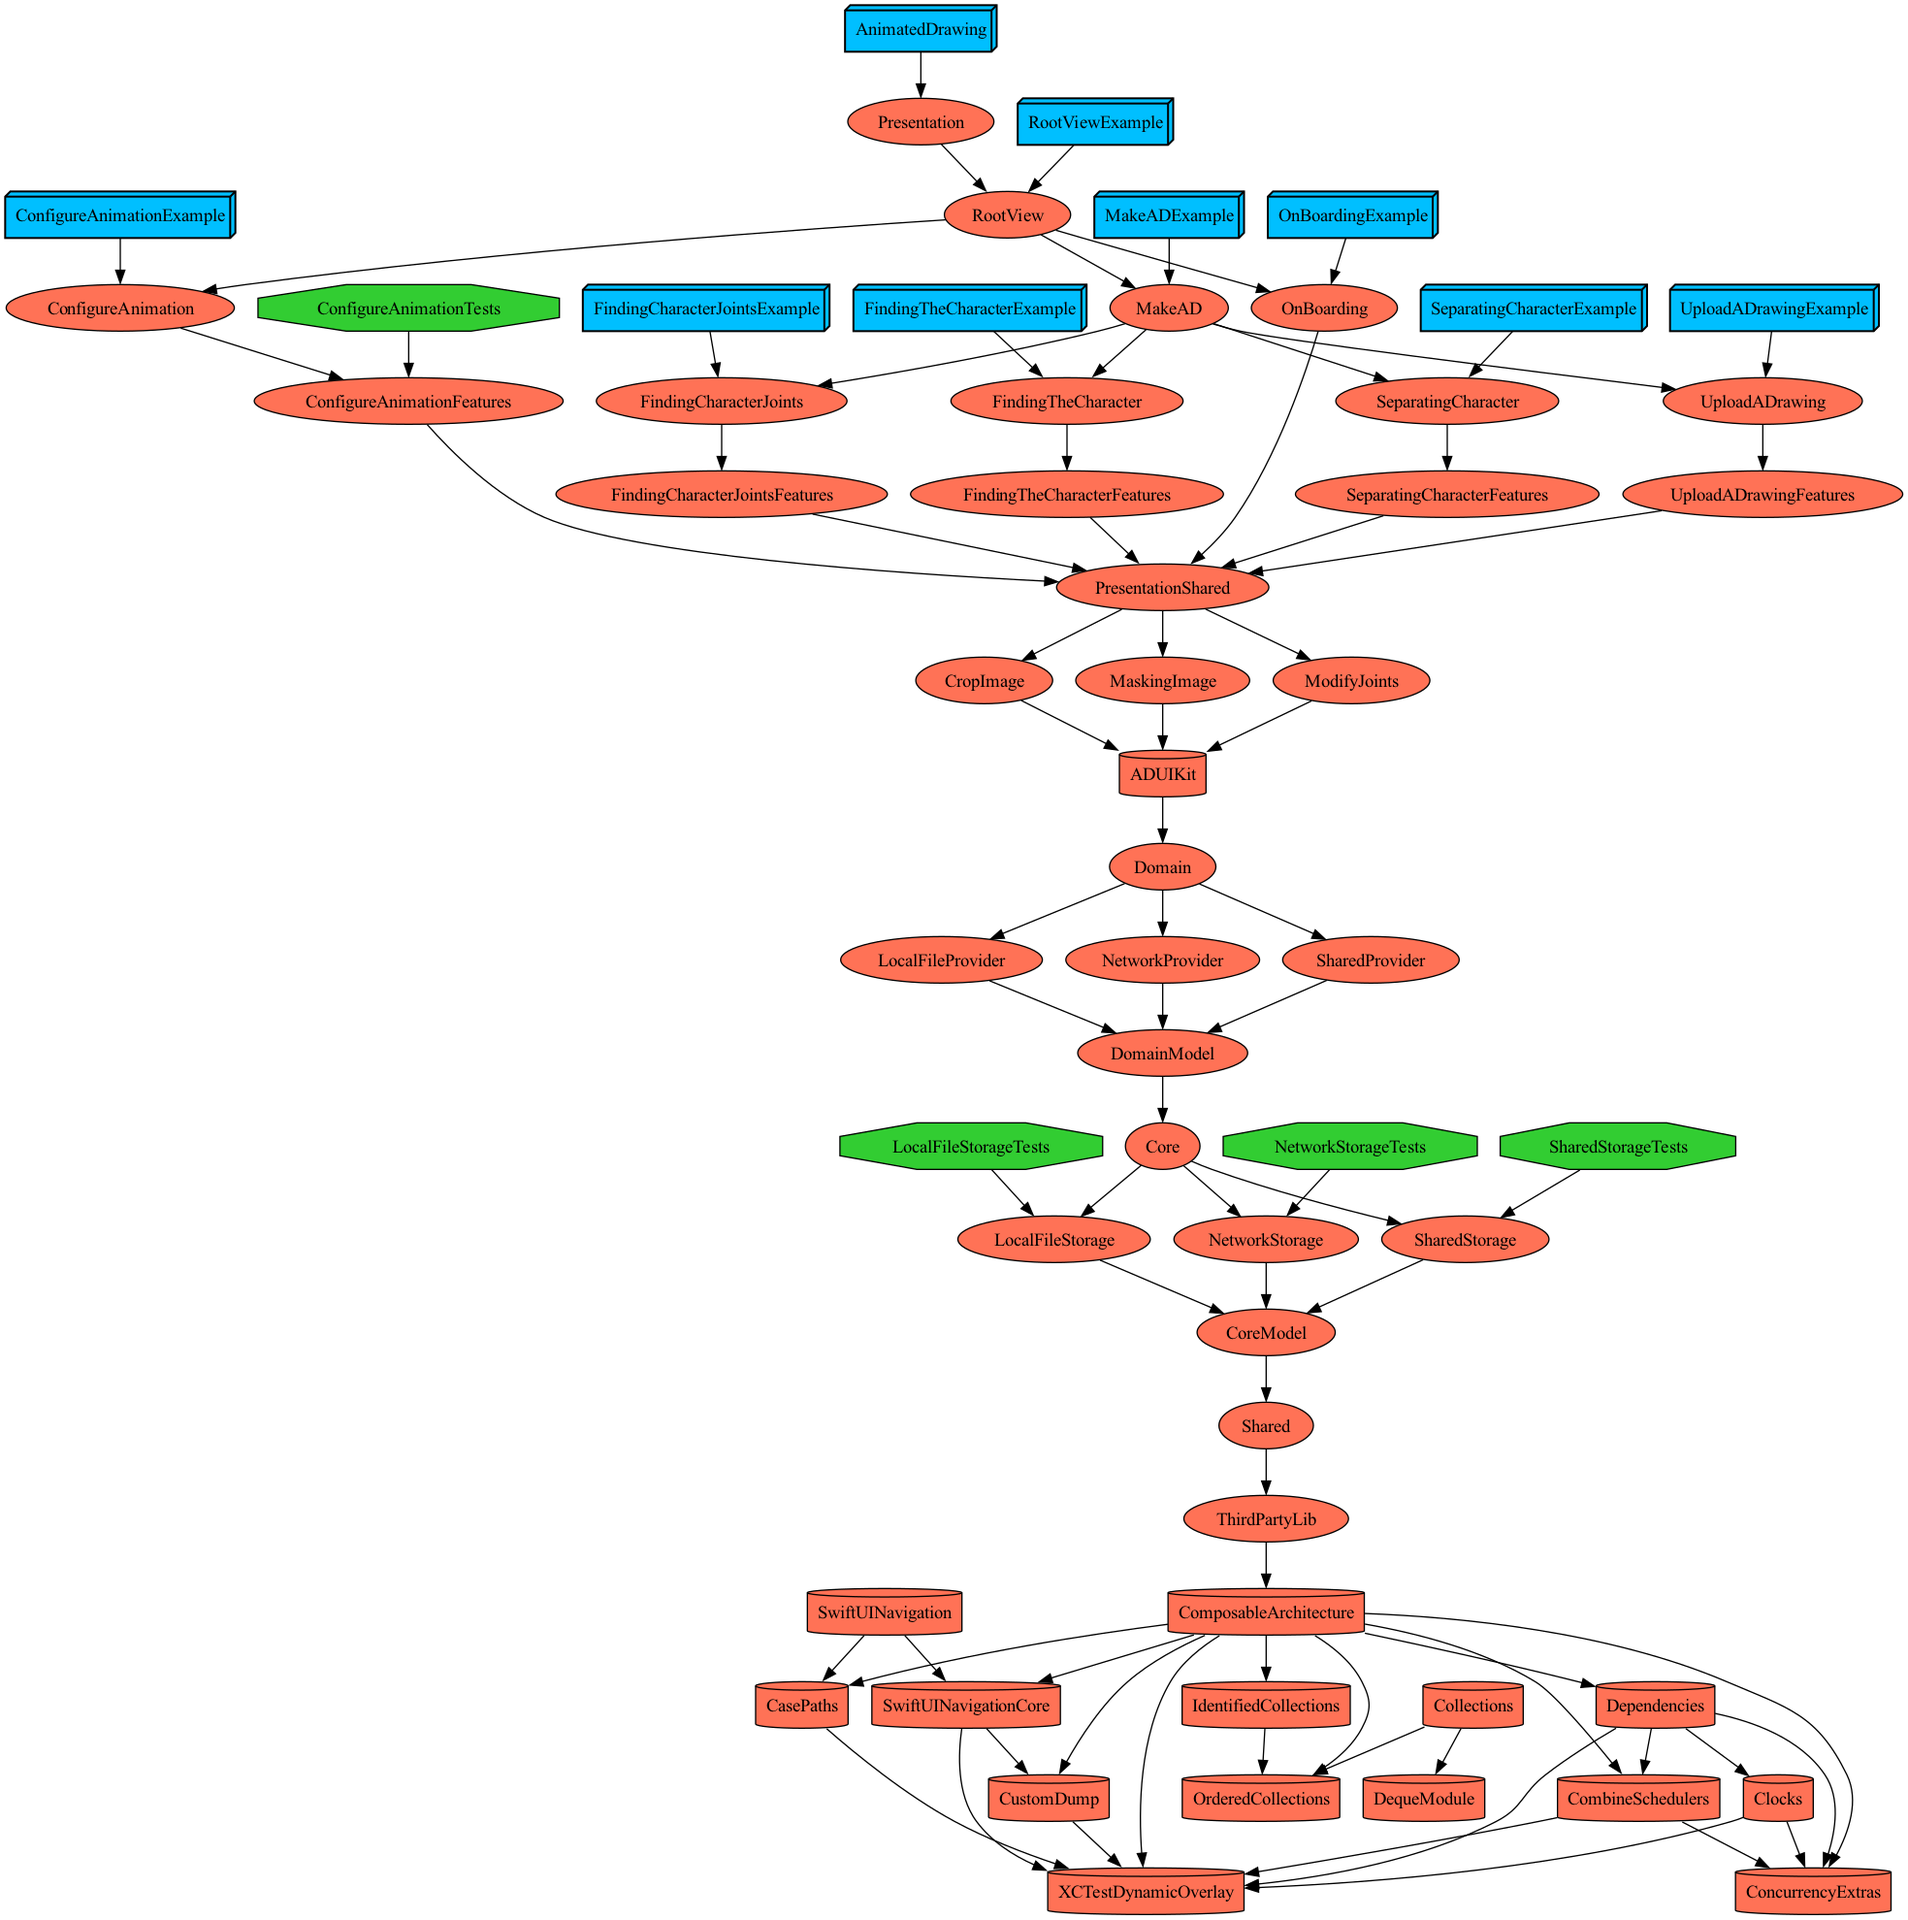
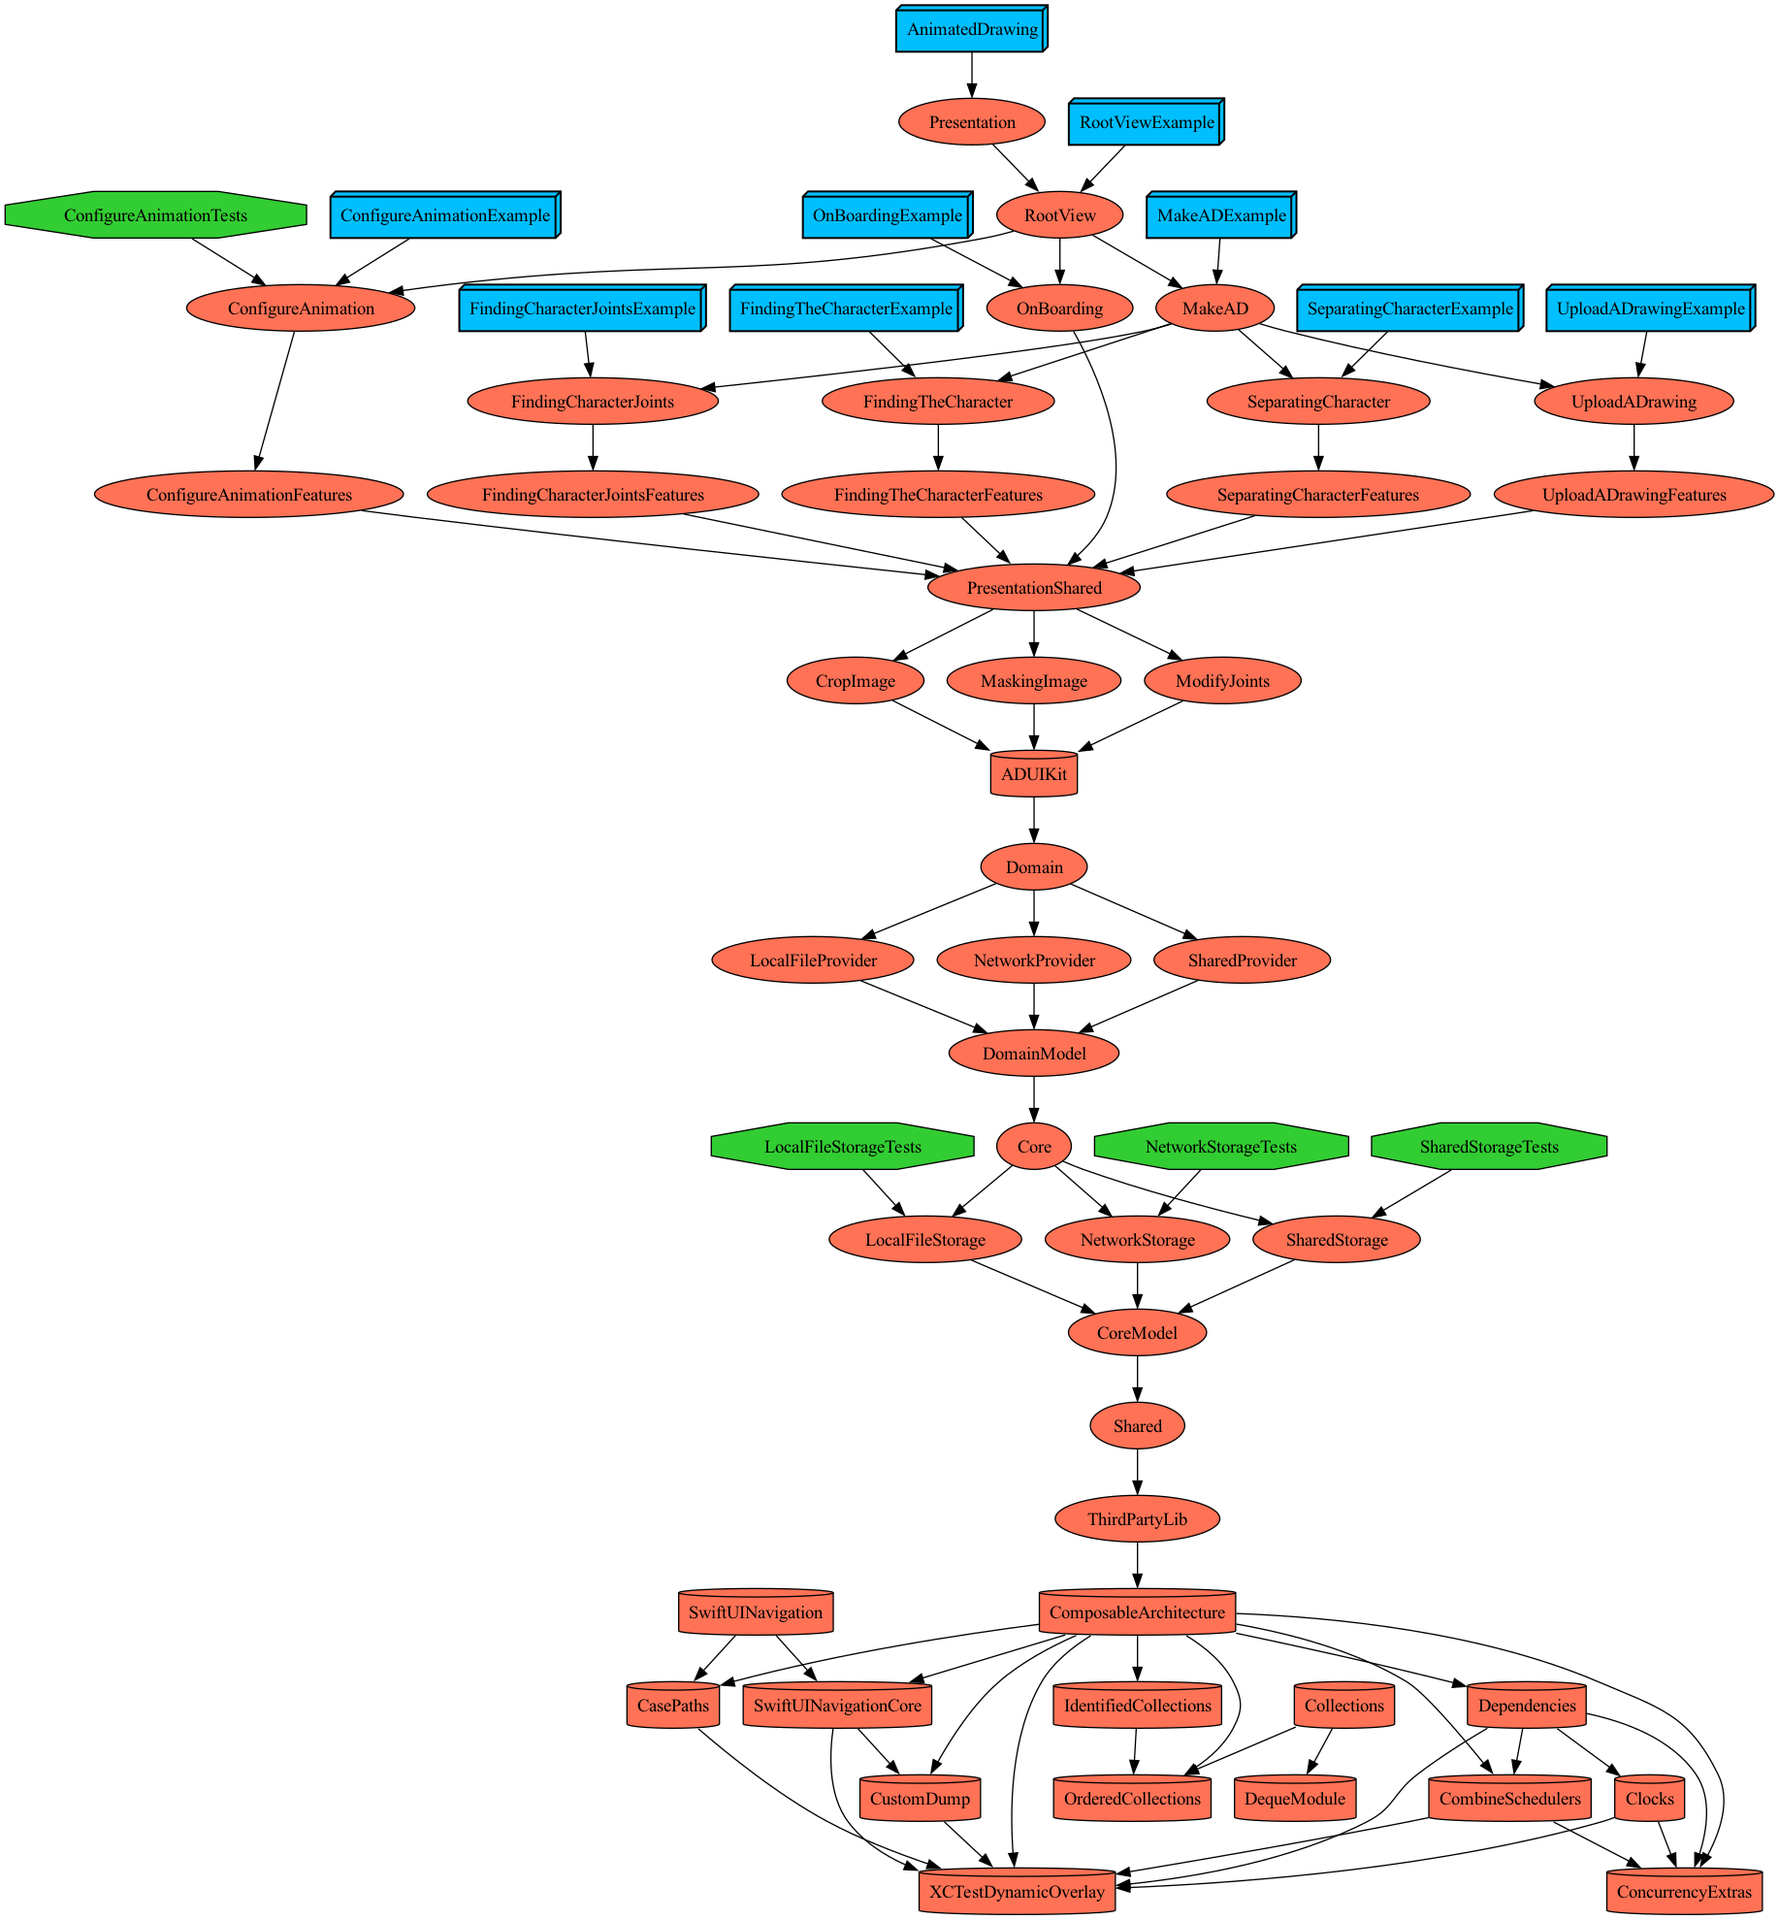
[Refactor] : TaskEmptyResult 추가
Git: #71

Changed region(s): [[0.0, 0.0, 0.9945, 1.0]]

diff --git a/Projects/Presentation/ConfigureAnimation/Tests/ConfigureAnimationTests.swift b/Projects/Presentation/ConfigureAnimation/Tests/ConfigureAnimationTests.swift
@@ -1,0 +1,107 @@
+//
+//  ConfigureAnimationTests.swift
+//  ConfigureAnimationTests
+//
+//  Created by minii on 2023/10/14.
+//  Copyright © 2023 chminipark. All rights reserved.
+//
+
+import XCTest
+import ComposableArchitecture
+@testable import ConfigureAnimationFeatures
+
+import SharedStorage
+import DomainModel
+
+@MainActor
+final class ConfigureAnimationTests: XCTestCase {
+  func testFixMakeAD() async {
+    let mockSharedADViewCase = CombineNotifier<ADViewCase>(initialValue: .OnBoarding)
+    let store = TestStore(initialState: .init()) {
+      ConfigureAnimationFeature()
+    } withDependencies: {
+      $0.shared.adViewCase = mockSharedADViewCase
+    }
+
+    await store.send(.fixMakeAD)
+    
+    let mockADViewCase = await mockSharedADViewCase.get()
+    XCTAssertEqual(ADViewCase.MakeAD, mockADViewCase)
+  }
+  
+  func testToggleIsShowAnimationListView() async {
+    let store = TestStore(initialState: .init()) {
+      ConfigureAnimationFeature()
+    }
+    
+    await store.send(.toggleIsShowAnimationListView) {
+      $0.isShowAnimationListView = !$0.isShowAnimationListView
+    }
+  }
+  
+  func testToggleIsShowShareView() async {
+    let store = TestStore(initialState: .init()) {
+      ConfigureAnimationFeature()
+    }
+    
+    await store.send(.toggleIsShowShareView) {
+      $0.isShowShareView = !$0.isShowShareView
+    }
+  }
+  
+  func testToggleIsShowShareActionSheetURLNil() async {
+    let store = TestStore(initialState: .init()) {
+      ConfigureAnimationFeature()
+    }
+    
+    store.exhaustivity = .off
+    
+    await store.send(.toggleIsShowShareActionSheet)
+    await store.receive(.showAlertShared(.initAlertShareAction()))
+  }
+  
+  func testToggleIsShowShareActionSheetURLNotNil() async {
+    let mockURL = URL(string: "https://www.apple.com")
+    let state = ConfigureAnimationFeature.State(myAnimationURL: mockURL)
+    let store = TestStore(initialState: state) {
+      ConfigureAnimationFeature()
+    }
+    
+    await store.send(.toggleIsShowShareActionSheet) {
+      $0.isShowActionSheet = !$0.isShowActionSheet
+    }
+  }
+  
+  func testSetLoadingView() async {
+    let store = TestStore(initialState: .init()) {
+      ConfigureAnimationFeature()
+    }
+    let flag = true
+    
+    await store.send(.setLoadingView(flag)) {
+      $0.isShowLoadingView = flag
+    }
+    
+  }
+}
+
+
+// MARK: - AlertState
+
+fileprivate extension AlertState {
+  static func initAlertShareAction() -> AlertState<ConfigureAnimationFeature.AlertShared> {
+    return .init(
+      title: {
+        TextState("No Animated Drawings File")
+      },
+      actions: {
+        ButtonState(role: .cancel) {
+          TextState("Cancel")
+        }
+      },
+      message: {
+        TextState("The file does not exist. Make a Animation First")
+      }
+    )
+  }
+}

diff --git a/Projects/Presentation/ConfigureAnimation/Features/ConfigureAnimationFeature.swift b/Projects/Presentation/ConfigureAnimation/Features/ConfigureAnimationFeature.swift
@@ -23,8 +23,6 @@ public struct ConfigureAnimationFeature: Reducer {
   public init() {}
   
   public struct State: Equatable {
-    public init() {}
-    
     @BindingState public var isShowAnimationListView = false
     public var isShowLoadingView = false
     @BindingState public var isShowShareView = false
@@ -39,9 +37,35 @@ public struct ConfigureAnimationFeature: Reducer {
     
     @PresentationState public var alertShared: AlertState<AlertShared>? = nil
     @PresentationState public var alertTrashMakeAD: AlertState<AlertTrashMakeAD>? = nil
+    
+    public init(
+      isShowAnimationListView: Bool = false,
+      isShowLoadingView: Bool = false,
+      isShowShareView: Bool = false,
+      isShowActionSheet: Bool = false,
+      selectedAnimation: ADAnimation? = nil,
+      myAnimationData: Data? = nil,
+      myAnimationURL: URL? = nil,
+      cache: [ADAnimation : URL?] = initCache(),
+      isSuccessAddAnimation: Bool = false,
+      alertShared: AlertState<AlertShared>? = nil,
+      alertTrashMakeAD: AlertState<AlertTrashMakeAD>? = nil
+    ) {
+      self.isShowAnimationListView = isShowAnimationListView
+      self.isShowLoadingView = isShowLoadingView
+      self.isShowShareView = isShowShareView
+      self.isShowActionSheet = isShowActionSheet
+      self.selectedAnimation = selectedAnimation
+      self.myAnimationData = myAnimationData
+      self.myAnimationURL = myAnimationURL
+      self.cache = cache
+      self.isSuccessAddAnimation = isSuccessAddAnimation
+      self.alertShared = alertShared
+      self.alertTrashMakeAD = alertTrashMakeAD
+    }
   }
   
-  public enum Action: BindableAction {
+  public enum Action: BindableAction, Equatable {
     case binding(BindingAction<State>)
     
     case fixMakeAD
@@ -53,7 +77,7 @@ public struct ConfigureAnimationFeature: Reducer {
     case setLoadingView(Bool)
     
     case selectAnimation(ADAnimation)
-    case addAnimationResponse(TaskResult<Void>)
+    case addAnimationResponse(TaskEmptyResult)
     
     case downloadVideo
     case downloadVideoResponse(TaskResult<Data>)
@@ -127,7 +151,7 @@ extension ConfigureAnimationFeature {
           await send(.setLoadingView(true))
           await send(
             .addAnimationResponse(
-              TaskResult {
+              TaskResult.empty {
                 try await configureAnimationProvider.add(ad_id, animation)
               }
             )
@@ -335,7 +359,7 @@ extension ConfigureAnimationFeature {
   }
 }
 
-extension ConfigureAnimationFeature.State {
+public extension ConfigureAnimationFeature.State {
   static func initCache() -> [ADAnimation : URL?] {
     return ADAnimation.allCases
       .reduce(into: [ADAnimation : URL?]()) { dict, key in

diff --git a/Projects/Shared/ThirdPartyLib/Sources/TCA/Protocol+TCA.swift b/Projects/Shared/ThirdPartyLib/Sources/TCA/Protocol+TCA.swift
@@ -14,3 +14,20 @@ public protocol ADUI: View {
   associatedtype MyViewStore = ViewStoreOf<MyFeature>
   associatedtype MyStore = StoreOf<MyFeature>
 }
+
+public typealias TaskEmptyResult = TaskResult<TaskEmptyResultValue>
+
+public struct TaskEmptyResultValue: Equatable, Sendable {}
+
+public extension TaskResult {
+  static func empty(
+    _ body: @Sendable () async throws -> ()
+  ) async -> TaskResult<TaskEmptyResultValue> where Success == TaskEmptyResultValue {
+    do {
+      try await body()
+      return .success(TaskEmptyResultValue())
+    } catch {
+      return .failure(error)
+    }
+  }
+}

diff --git a/Projects/Domain/SharedProvider/Sources/SharedProvider.swift b/Projects/Domain/SharedProvider/Sources/SharedProvider.swift
@@ -15,7 +15,7 @@ import ComposableArchitecture
 public struct Shared {
   public let makeAD = Self.MakeAD()
   public let stepBar = Self.StepBar()
-  public let adViewCase = CombineNotifier<ADViewCase>(initialValue: .OnBoarding)
+  public var adViewCase = CombineNotifier<ADViewCase>(initialValue: .OnBoarding)
 }
 
 public extension Shared {

diff --git a/Plugins/ProjectEnvironment/ProjectDescriptionHelpers/Module.swift b/Plugins/ProjectEnvironment/ProjectDescriptionHelpers/Module.swift
@@ -81,7 +81,7 @@ public extension PresentationModule {
       deploymentTarget: .iOS(targetVersion: "16.0", devices: [.iphone]),
       infoPlist: .default,
       sources: ["Tests/**"],
-      dependencies: [ .target(name: Self.targetName + "Features") ]
+      dependencies: [ .target(name: Self.targetName) ]
     )
   }
 }

diff --git a/Projects/Presentation/ConfigureAnimation/Project.swift b/Projects/Presentation/ConfigureAnimation/Project.swift
@@ -10,6 +10,7 @@ import ProjectEnvironment
 
 let project: Project = .makeProject(
   name: ConfigureAnimation.projectName,
+  options: .enableCodeCoverage,
   targets: [
     ConfigureAnimation.example(),
     ConfigureAnimation.views(),

diff --git a/Projects/Domain/DomainModel/Sources/Entity/ADAnimation.swift b/Projects/Domain/DomainModel/Sources/Entity/ADAnimation.swift
@@ -8,7 +8,7 @@
 
 import Foundation
 
-public enum ADAnimation: String, CaseIterable {
+public enum ADAnimation: String, CaseIterable, Equatable {
   case dab
   case zombie
 }
